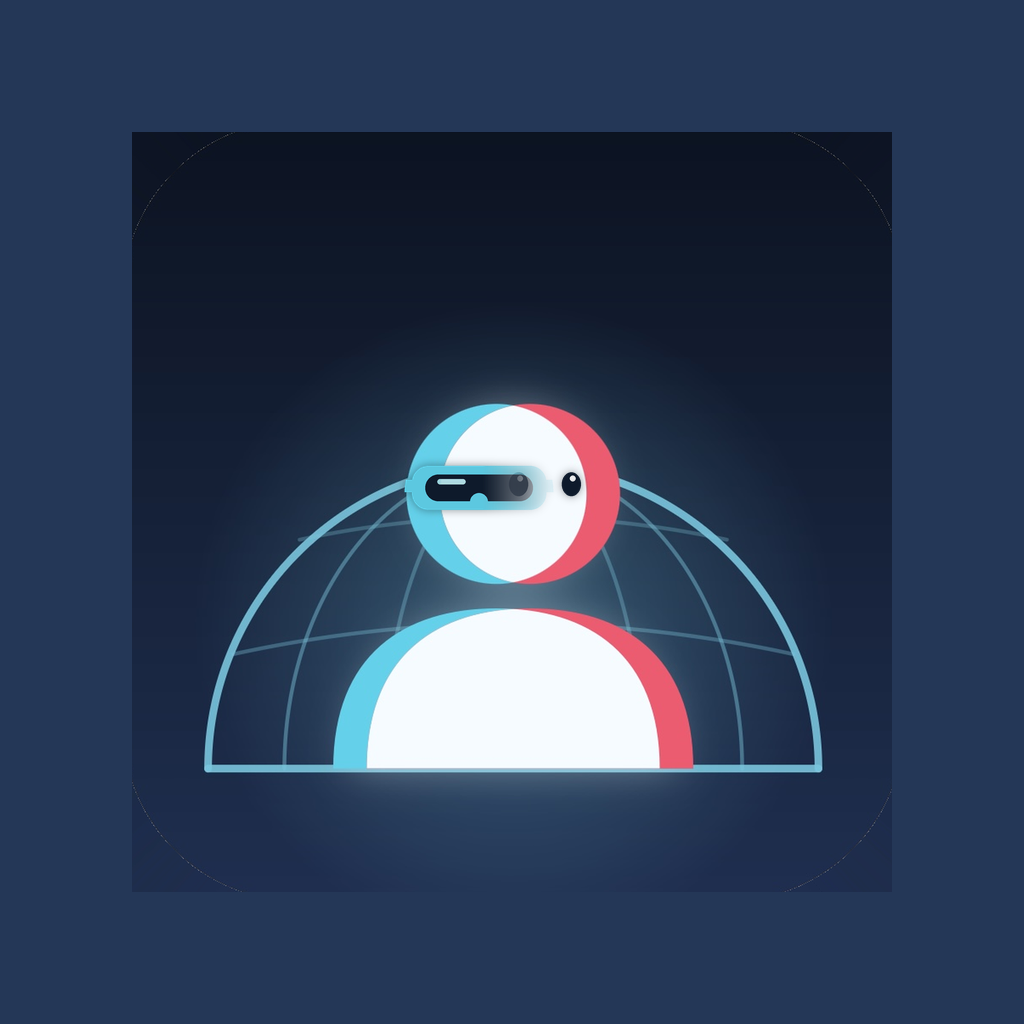
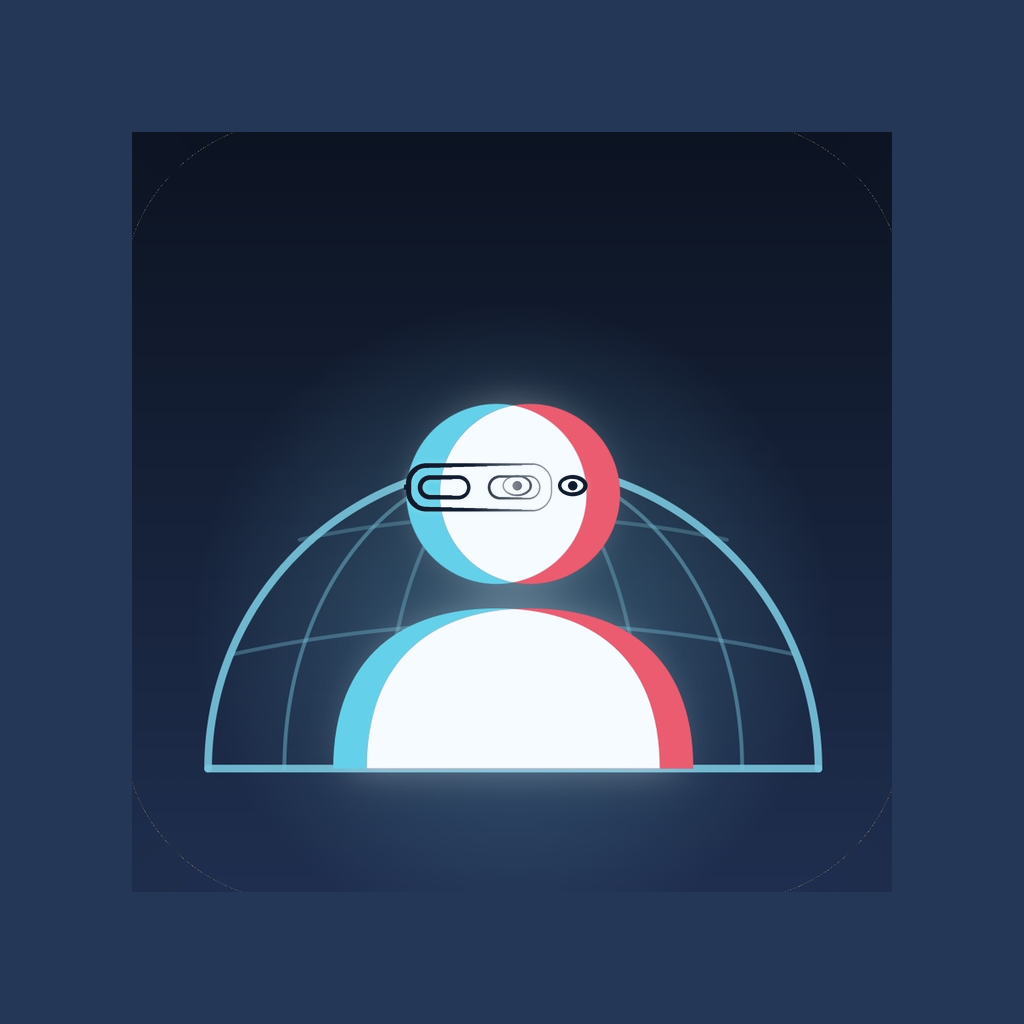
## Ho ridisegnato visore e occhi solo a contorni
- **Visore:** ora è sulla testa blu, disegnato solo con i contorni: una cornice, due lenti e un pezzo di cinghia. Le linee sono spesse e scure verso l'esterno e diventano più sottili e più chiare verso il centro, dove le due teste si incrociano.
- **Occhi:** sono sulla testa rossa, anche loro solo a contorni con la pupilla. L'occhio esterno ha il bordo marcato, quello verso il centro è più sottile e sfumato.
- **Dove l'ho messa:** la nuova immagine è nell'icona dell'app, nell'icona Android e nella schermata di avvio. Icona e schermata di avvio le ho controllate a vista; il piccolo simbolo della scheda del browser no.
- Sul telefono vedrai la nuova icona solo dopo aver pubblicato e installato l'app. In Expo Go resta quella di Expo.

**Come provare l'app:**
- Ora stai lavorando in una versione di prova, non in quella pubblica.
- Quando sei pronto, puoi pubblicare l'app e creare le versioni per iPhone e Android: tocca Publish (in alto a destra), poi pubblica l'app e crea le versioni per iPhone e Android.
- L'anteprima nel browser impiega 20-30 secondi ad aggiornarsi.
- Per vedere l'app sul telefono, inquadra il codice QR accanto all'anteprima: si apre Expo Go e puoi provarla lì.
- Alcune funzioni del telefono si possono provare solo dopo aver pubblicato l'app e installato la versione creata: telecamera, audio e notifiche, quindi anche le chiamate 3D e la nuova icona.

- Prossimi passi:
[…]

Changed region(s): [[0.375, 0.4375, 0.5938, 0.5]]

diff --git a/scripts/visor_icon.py b/scripts/visor_icon.py
@@ -1,21 +1,37 @@
-"""User's original icon + stylized VR visor on the blue head (fading out where it crosses
-into the centre) and eyes on the red head (the eye in the centre also faded):
-one person wears the visor, the other does not."""
+"""User's original icon + line-art VR visor on the blue head and line-art eyes on the red head.
+Strokes are bold on the outer side and get thinner (and lighter) towards the centre,
+where the two heads cross: one person wears the visor, the other does not."""
 import sys
 from PIL import Image, ImageChops, ImageDraw, ImageFilter
 
-NAVY = (14, 26, 43)
-CY = (92, 200, 224)
-CYL = (180, 235, 245)
+INK = (14, 26, 43)
 
 
-def hfade(size, x0, x1, a0=255, a1=40):
-    """Horizontal alpha ramp: a0 left of x0, a1 right of x1."""
+def ramp(size, x0, x1, a0, a1):
+    """Horizontal ramp: a0 left of x0, a1 right of x1 (x0 < x1)."""
     W, H = size
     row = [int(a0 if x <= x0 else a1 if x >= x1 else a0 + (a1 - a0) * (x - x0) / (x1 - x0)) for x in range(W)]
     g = Image.new("L", (W, 1))
     g.putdata(row)
     return g.resize((W, H))
+
+
+def strokes(size, draw_fn, width):
+    m = Image.new("L", size, 0)
+    draw_fn(ImageDraw.Draw(m), width)
+    return m
+
+
+def blend_widths(size, draw_fn, thick, thin, wmask, levels=12):
+    """Stroke width tapers from `thick` (wmask 255) to `thin` (wmask 0) in fine hard steps,
+    so the line gets thinner without grey halos."""
+    out = Image.new("L", size, 0)
+    for i in range(levels):
+        lo, hi = 256 * i // levels, 256 * (i + 1) // levels
+        band = wmask.point(lambda v, lo=lo, hi=hi: 255 if lo <= v < hi or (hi == 256 and v == 255) else 0)
+        width = thin + (thick - thin) * (i + 0.5) / levels
+        out = ImageChops.lighter(out, ImageChops.multiply(strokes(size, draw_fn, width), band))
+    return out
 
 
 def make(src, dst, bx, cy, r, rx):
@@ -24,40 +40,49 @@ def make(src, dst, bx, cy, r, rx):
     W, H = img.size
     s = 4
     S = (W * s, H * s)
+    X, Y, R, RX = bx * s, cy * s, r * s, rx * s
+    T, t = R * 0.075, R * 0.02  # thick / thin stroke
 
-    # visor on the blue head
-    ov = Image.new("RGBA", S, (0, 0, 0, 0))
-    d = ImageDraw.Draw(ov)
-    X, Y, R = bx * s, cy * s, r * s
-    w, h = R * 0.92, R * 0.6
+    # --- visor (blue head): outer frame, two lens outlines, strap stub
+    w, h = R * 1.0, R * 0.66
     top = Y - h * 0.62
-    d.rounded_rectangle((X - R * 1.2, top + h * 0.32, X + R * 1.2, top + h * 0.6), radius=int(h * 0.14), fill=CY + (255,))
-    d.rounded_rectangle((X - w, top, X + w, top + h), radius=int(h * 0.38), fill=CY + (255,))
-    d.rounded_rectangle((X - w * 0.8, top + h * 0.2, X + w * 0.8, top + h * 0.8), radius=int(h * 0.3), fill=NAVY + (255,))
-    d.rounded_rectangle((X - w * 0.62, top + h * 0.3, X - w * 0.2, top + h * 0.42), radius=int(h * 0.06), fill=CYL + (200,))
-    d.pieslice((X - h * 0.2, top + h * 0.62, X + h * 0.2, top + h * 1.02), 180, 360, fill=CY + (255,))
-    m = Image.new("L", S, 0)
-    ImageDraw.Draw(m).ellipse((X - R * 1.02, Y - R * 1.02, X + R * 1.02, Y + R * 1.02), fill=255)
-    # fade towards the centre of the icon, where the two heads cross
-    fade = hfade(S, (bx + r * 0.05) * s, (bx + r * 0.95) * s, 255, 35)
-    ov.putalpha(ImageChops.multiply(ImageChops.multiply(ov.getchannel("A"), m), fade))
+    lw, lh = w * 0.72, h * 0.5
 
-    # eyes on the red head; the one in the centre is faded too
-    eyes = Image.new("RGBA", S, (0, 0, 0, 0))
-    ed = ImageDraw.Draw(eyes)
-    er = R * 0.13
-    ey = Y - R * 0.12
-    for ex in (rx * s - R * 0.36, rx * s + R * 0.36):
-        ed.ellipse((ex - er, ey - er * 1.25, ex + er, ey + er * 1.25), fill=NAVY + (255,))
-        ed.ellipse((ex - er * 0.15, ey - er * 0.9, ex + er * 0.45, ey - er * 0.3), fill=(255, 255, 255, 200))
-    efade = hfade(S, (rx - r * 0.55) * s, (rx + r * 0.1) * s, 70, 255)
-    eyes.putalpha(ImageChops.multiply(eyes.getchannel("A"), efade))
+    def visor(d, sw):
+        sw = max(1, int(sw))
+        d.rounded_rectangle((X - w, top, X + w, top + h), radius=int(h * 0.42), outline=255, width=sw)
+        for lx in (X - w * 0.84, X + w * 0.12):
+            d.rounded_rectangle((lx, top + (h - lh) / 2, lx + lw, top + (h + lh) / 2), radius=int(lh * 0.5), outline=255, width=sw)
+        d.line((X - R * 1.3, top + h * 0.5, X - w, top + h * 0.5), fill=255, width=sw)
 
-    layer = Image.alpha_composite(eyes, ov).resize((W, H), Image.LANCZOS)
-    sh = Image.new("RGBA", (W, H), (0, 0, 0, 0))
-    sh.putalpha(layer.getchannel("A").point(lambda v: int(v * 0.4)))
-    sh = sh.filter(ImageFilter.GaussianBlur(r * 0.06))
-    Image.alpha_composite(Image.alpha_composite(img, sh), layer).save(dst)
+    vw = ramp(S, X - w, X + w * 0.9, 255, 0)  # thick on the outer (left) side
+    vmask = blend_widths(S, visor, T, t, vw)
+    vmask = ImageChops.multiply(vmask, ramp(S, X - w * 0.2, X + w * 1.05, 255, 90))  # lighter towards the centre
+    head = Image.new("L", S, 0)
+    ImageDraw.Draw(head).ellipse((X - R * 1.03, Y - R * 1.03, X + R * 1.03, Y + R * 1.03), fill=255)
+    vmask = ImageChops.multiply(vmask, head)
+
+    # --- eyes (red head): almond outline + small pupil ring
+    er = R * 0.2
+    ey = Y - R * 0.1
+    centres = (RX - R * 0.38, RX + R * 0.38)
+
+    def eyes(d, sw):
+        sw = max(1, int(sw))
+        for ex in centres:
+            d.ellipse((ex - er, ey - er * 0.72, ex + er, ey + er * 0.72), outline=255, width=sw)
+            d.ellipse((ex - er * 0.32, ey - er * 0.32, ex + er * 0.32, ey + er * 0.32), fill=255)
+
+    ew = ramp(S, RX - R * 0.6, RX + R * 0.55, 0, 255)  # thick on the outer (right) side
+    emask = blend_widths(S, eyes, T * 0.8, t, ew)
+    emask = ImageChops.multiply(emask, ramp(S, RX - R * 0.65, RX + R * 0.15, 90, 255))
+
+    mask = ImageChops.lighter(vmask, emask).resize((W, H), Image.LANCZOS)
+    ink = Image.new("RGBA", (W, H), INK + (255,))
+    ink.putalpha(mask)
+    soft = Image.new("RGBA", (W, H), (255, 255, 255, 0))
+    soft.putalpha(mask.filter(ImageFilter.GaussianBlur(r * 0.04)).point(lambda v: int(v * 0.35)))
+    Image.alpha_composite(Image.alpha_composite(img, soft), ink).save(dst)
 
 
 if __name__ == "__main__":
